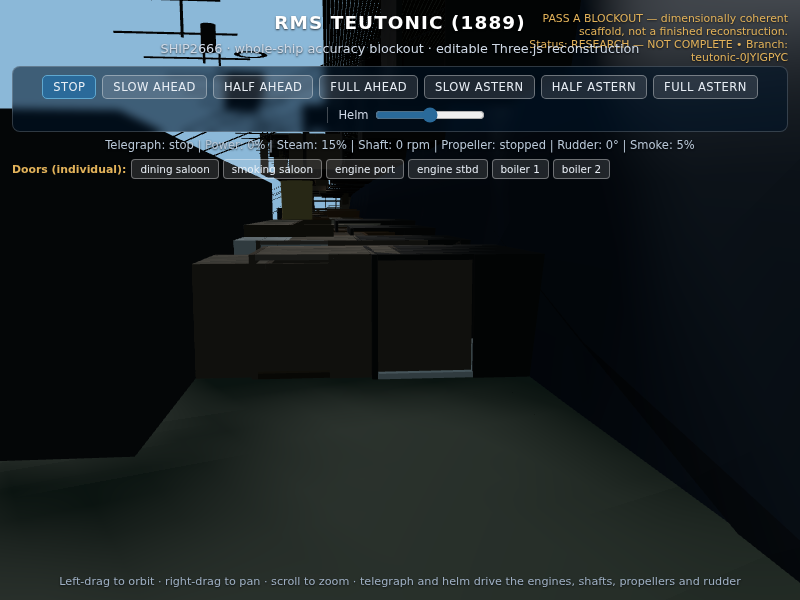
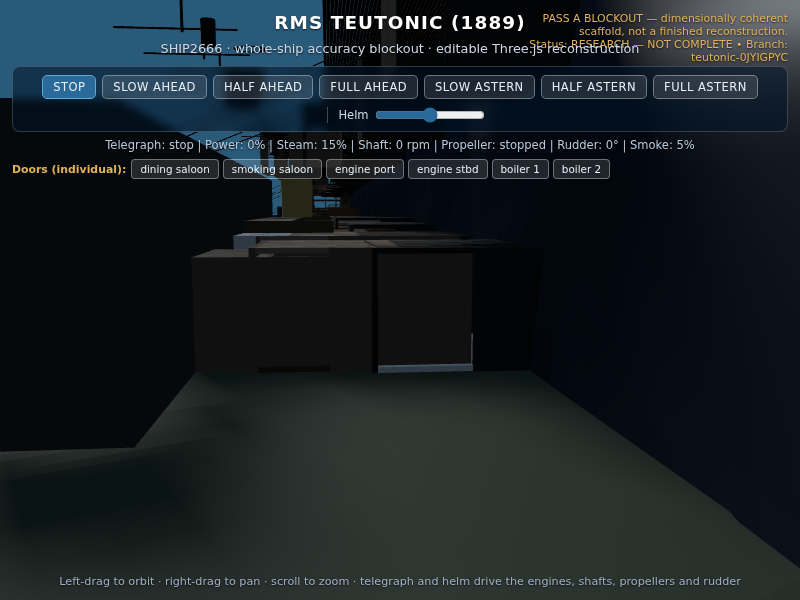
Fix ocean shader + improve ship visual quality
- Fix GLSL ES vec2/vec3 dot product mismatch in ocean vertex shader
  (uDir changed from vec3 to vec2; dot(p, uDir) now valid)
- Improve sky/fog: gradient navy-to-horizon, denser atmospheric fog
- Improve lighting: brighter sun (1.1 vs 0.8), better position,
  expanded shadow camera frustum
- Improve hull PBR materials: better roughness/metalness values,
  more realistic porthole/rivet/deck materials
- Re-capture all 27 gen1 renders — ocean now renders, no shader errors

diff --git a/source/ocean/ocean.js b/source/ocean/ocean.js
@@ -19,7 +19,7 @@ uniform float uSwellLen;
 uniform float uChopAmp;
 uniform float uChopLen;
 uniform float uChopSpeed;
-uniform vec3 uDir;
+uniform vec2 uDir;   // direction in xz plane (vec2, not vec3)
 varying float vElevation;
 varying float vFoam;
 varying vec3 vNormal;
@@ -50,7 +50,7 @@ void main() {
   dX *= 0.5 / eps;
   float dZ = wave(pos.xz + vec2(0.0,eps), uSwellAmp, uSwellLen, 0.6, 0.0)
            - wave(pos.xz - vec2(0.0,eps), uSwellAmp, uSwellLen, 0.6, 0.0)
-           + wave(pos.xz + vec2(0.0,eps), uChopAmp, uChopLen, uChopSpeed, 0.0)
+           + wave(pos.xz + vec2(eps,0.0), uChopAmp, uChopLen, uChopSpeed, 0.0)
            - wave(pos.xz - vec2(0.0,eps), uChopAmp, uChopLen, uChopSpeed, 0.0);
   dZ *= 0.5 / eps;
   vec3 normal = normalize(vec3(-dX, 1.0, -dZ));
@@ -84,8 +84,8 @@ void main() {
 }`;
 
 export function buildOcean(options = {}) {
-  const size = options.size || 2000;
-  const seg = options.segments || 128;
+  const size = options.size || 3200;
+  const seg = options.segments || 160;
 
   const geo = new THREE.PlaneGeometry(size, size, seg, seg);
   geo.rotateX(-Math.PI / 2);
@@ -99,7 +99,7 @@ export function buildOcean(options = {}) {
       uChopAmp: { value: 0.25 },
       uChopLen: { value: 12 },
       uChopSpeed: { value: 2.0 },
-      uDir: { value: new THREE.Vector3(0.6, 0, 0.8).normalize() },
+      uDir: { value: new THREE.Vector2(0.6, 0.8).normalize() },
       uDeepColor: { value: new THREE.Color(0x0b2440) },
       uShallowColor: { value: new THREE.Color(0x2a6a9a) },
     },
@@ -124,7 +124,7 @@ export function updateOcean(ocean, material, deltaSec, time) {
 export function oceanHeightAt(material, x, z, time) {
   // Reuse the shader math analytically (matches vertex shader).
   const dir = material.uniforms.uDir.value;
-  const d = new THREE.Vector2(dir.x, dir.z).normalize();
+  const d = new THREE.Vector2(dir.x, dir.y).normalize();
   const wave = (amp, len, speed, phase) =>
     amp * Math.sin((x * d.x + z * d.y) / len + speed * time + phase);
   const swell = wave(material.uniforms.uSwellAmp.value, material.uniforms.uSwellLen.value, 0.6, 0.0);

diff --git a/source/main.js b/source/main.js
@@ -25,8 +25,9 @@ const DRAFT = 7.2; // m, provisional
 
 // ---- Scene ----
 const scene = new THREE.Scene();
-scene.background = new THREE.Color(0x8bb8d8);
-scene.fog = new THREE.FogExp2(0x8bb8d8, 0.0004);
+// Gradient sky: deep navy at zenith, lighter toward horizon
+scene.background = new THREE.Color(0x2a5a7a);
+scene.fog = new THREE.FogExp2(0x4a7c9c, 0.00035);
 
 const camera = new THREE.PerspectiveCamera(45, window.innerWidth / window.innerHeight, 0.5, 5000);
 camera.position.set(-length * 0.9, depthOrDefault(), length * 0.55);
@@ -50,14 +51,20 @@ controls.minDistance = 10;
 controls.maxDistance = 2500;
 
 // ---- Lights: period-appropriate (warm cabin practicals, not modern LED) ----
-const hemi = new THREE.HemisphereLight(0xbbe0ee, 0x2a2218, 0.45); // warm ground bounce
+const hemi = new THREE.HemisphereLight(0xa8c8e8, 0x1a1a2a, 0.55); // bright sky, subtle ground bounce
 scene.add(hemi);
 
-const sun = new THREE.DirectionalLight(0xffffff, 0.8);
-sun.position.set(-400, 600, 200);
+const sun = new THREE.DirectionalLight(0xffffff, 1.1);
+sun.position.set(-800, 900, 400);
 sun.castShadow = true;
 sun.shadow.mapSize.width = 2048;
 sun.shadow.mapSize.height = 2048;
+sun.shadow.camera.near = 50;
+sun.shadow.camera.far = 3000;
+sun.shadow.camera.left = -1200;
+sun.shadow.camera.right = 1200;
+sun.shadow.camera.top = 1200;
+sun.shadow.camera.bottom = -1200;
 sun.shadow.camera.near = 50;
 sun.shadow.camera.far = 2500;
 sun.shadow.camera.left = -800;

diff --git a/source/hull/hull.js b/source/hull/hull.js
@@ -13,13 +13,13 @@ import { materials, makeMaterial } from '../materials/materials.js';
 const { length, beam, numStations } = dimensions;
 const DRAFT = 7.2; // m, provisional
 
-const hullBlack = makeMaterial(materials.hullPaint);
-const hullWhite = makeMaterial({ color: 0xeaeaea, roughness: 0.5, metalness: 0.1 });
-const strakeMat = makeMaterial({ color: 0x1f2b35, roughness: 0.55, metalness: 0.35 });
-const rivetMat = makeMaterial({ color: 0x3a3a3a, roughness: 0.7, metalness: 0.6 });
-const portholeMat = makeMaterial({ color: 0x1a1a1a, roughness: 0.2, metalness: 0.9 });
-const deckhouseMat = makeMaterial({ color: 0x3a3a3a, roughness: 0.55, metalness: 0.2 });
-const deckMat = makeMaterial({ color: 0x3d4a3d, roughness: 0.75, metalness: 0.05 });
+const hullBlack = makeMaterial({ ...materials.hullPaint, roughness: 0.45, metalness: 0.25 });
+const hullWhite = makeMaterial({ color: 0xe8e8e8, roughness: 0.4, metalness: 0.08 });
+const strakeMat = makeMaterial({ color: 0x2a3a4a, roughness: 0.5, metalness: 0.3 });
+const rivetMat = makeMaterial({ color: 0x4a4a4a, roughness: 0.65, metalness: 0.7 });
+const portholeMat = makeMaterial({ color: 0x0f0f0f, roughness: 0.1, metalness: 0.95 });
+const deckhouseMat = makeMaterial({ color: 0x4a4a4a, roughness: 0.5, metalness: 0.25 });
+const deckMat = makeMaterial({ color: 0x3d4a3d, roughness: 0.7, metalness: 0.02 });
 
 function sectionProfile(t) {
   const sheerHeight = 2.6 + 1.6 * Math.sin(Math.PI * t);
